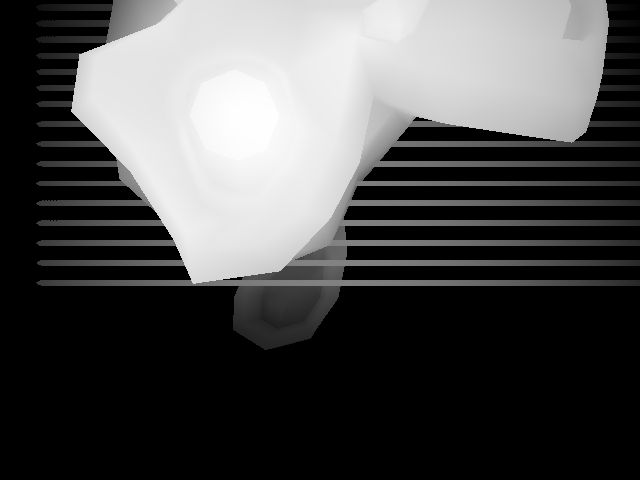
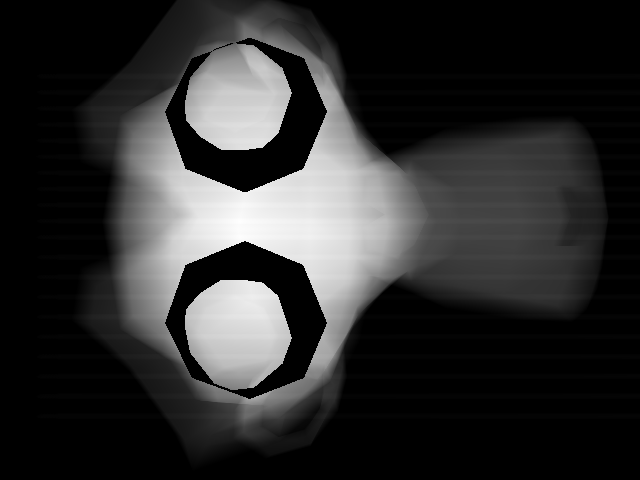
Full working hybrid

diff --git a/deepdrr/projector/projector.py b/deepdrr/projector/projector.py
@@ -10,6 +10,7 @@ import warnings
 os.environ['PYOPENGL_PLATFORM'] = 'egl' # TODO
 
 
+from collections import defaultdict
 import math
 from pyparsing import alphas
 import torch
@@ -646,8 +647,32 @@ class Projector(object):
             print(f"init arrays: {mesh_perf_end - mesh_perf_start}")
             mesh_perf_start = mesh_perf_end
 
+            for mesh in self.prim_meshes:
+                mesh.is_visible = False
+
+            self.additive_densities = np.zeros((len(self.mesh_unique_materials), self.n_rays), dtype=np.float32)
+
             # for mesh_i, _mesh in enumerate(self.primitives[:1]):
             # for mesh_i, _mesh in enumerate(self.primitives):
+            for i in range(len(self.prim_meshes_by_mat_list)):
+                meshes_to_show = self.prim_meshes_by_mat_list[i]
+                
+                for node in meshes_to_show:
+                    node.is_visible = True
+
+                rendered_layers = self.gl_renderer.render(self.scene, drr_mode=DRRMode.DENSITY, flags=RenderFlags.RGBA, zfar=self.device.source_to_detector_distance)
+                rendered_layers = [x for im in rendered_layers for x in [im[:,:,0], im[:,:,1]] ]
+                rendered_layers[0][rendered_layers[1]!=0] = 0 
+                self.additive_densities[i] = rendered_layers[0].flatten()
+                
+                for node in meshes_to_show:
+                    node.is_visible = False
+            
+            cuda.memcpy_htod(self.additive_densities_gpu, self.additive_densities)
+
+
+            for mesh in self.prim_meshes:
+                mesh.is_visible = True
 
             rendered_layers = self.gl_renderer.render(self.scene, drr_mode=DRRMode.BACKDIST, flags=RenderFlags.RGBA, zfar=self.device.source_to_detector_distance)
 
@@ -658,8 +683,6 @@ class Projector(object):
             mesh_perf_end = time.perf_counter()
             print(f"render: {mesh_perf_end - mesh_perf_start}")
             mesh_perf_start = mesh_perf_end
-
-            # cuda.memcpy_htod(self.additive_densities, color.astype(np.float32))
 
             prim_hit_alphas = np.zeros((num_rays, self.max_mesh_depth), dtype=np.float32)
             len_rendered = len(rendered_layers)
@@ -755,7 +778,7 @@ class Projector(object):
                 self.solid_angle_gpu,  # solid_angle
                 np.uint64(self.mesh_hit_alphas_gpu),
                 np.uint64(self.mesh_hit_facing_gpu),
-                np.uint64(self.additive_densities),
+                np.uint64(self.additive_densities_gpu),
                 np.uint64(self.mesh_unique_materials_gpu),
                 np.int32(len(self.mesh_unique_materials)),
                 np.int32(self.max_mesh_depth),
@@ -1261,7 +1284,19 @@ class Projector(object):
 
         self.scene = Scene(bg_color=[0.0, 0.0, 0.0])
 
-        self.prim_nodes = [self.scene.add(Mesh([Primitive(positions=prim.compute_vertices().copy(), indices=prim.triangles(flip_winding_order=False).copy())])) for prim in self.primitives]
+        # self.prim_nodes = [self.scene.add(Mesh([Primitive(positions=prim.compute_vertices().copy(), indices=prim.triangles(flip_winding_order=False).copy())])) for prim in self.primitives]
+        self.prim_nodes = []
+        self.prim_meshes = []
+        self.prim_meshes_by_mat = defaultdict(list)
+        for prim in self.primitives:
+            mesh = Mesh([Primitive(positions=prim.compute_vertices().copy(), indices=prim.triangles(flip_winding_order=False).copy())])
+            node = self.scene.add(mesh)
+            self.prim_nodes.append(node)
+            self.prim_meshes_by_mat[prim.material].append(mesh)
+            self.prim_meshes.append(mesh)
+
+        self.prim_meshes_by_mat_list = [self.prim_meshes_by_mat[mat] for mat in self.mesh_unique_materials]
+        
         # duckmesh = Mesh.from_trimesh(trimesh.load("./models/suzanne_stress.stl"))
         # self.scene.add(duckmesh)
 
@@ -1283,7 +1318,7 @@ class Projector(object):
 
         self.gl_renderer = OffscreenRenderer(viewport_width=width, viewport_height=height, point_size=1.0)
 
-        self.additive_densities = cuda.mem_alloc(len(self.mesh_unique_materials) * self.n_rays * NUMBYTES_FLOAT32)
+        self.additive_densities_gpu = cuda.mem_alloc(len(self.mesh_unique_materials) * self.n_rays * NUMBYTES_FLOAT32)
 
         # allocate volumes' priority level on the GPU
         self.priorities_gpu = cuda.mem_alloc(len(self.volumes) * NUMBYTES_INT32)
@@ -1830,7 +1865,7 @@ class Projector(object):
                 for seg in self.segmentations_gpu[vol_id]:
                     seg.free()
 
-            self.additive_densities.free()
+            self.additive_densities_gpu.free()
             self.mesh_unique_materials_gpu.free()
 
             self.priorities_gpu.free()

diff --git a/deepdrr/pyrender/renderer.py b/deepdrr/pyrender/renderer.py
@@ -162,8 +162,11 @@ class Renderer(object):
         # retval = self._forward_pass(scene, flags, seg_node_map=seg_node_map, drr_mode=drr_mode, zfar=zfar, peelnum=0)
         # retval = self._forward_pass(scene, flags, seg_node_map=seg_node_map, drr_mode=drr_mode, zfar=zfar, peelnum=1)
         # retval = self._forward_pass(scene, flags, seg_node_map=seg_node_map, drr_mode=drr_mode, zfar=zfar, peelnum=2)
-        for i in range(self.max_dual_peel_layers):
-            retval = self._forward_pass(scene, flags, seg_node_map=seg_node_map, drr_mode=drr_mode, zfar=zfar, peelnum=i)
+        if drr_mode != DRRMode.DENSITY:
+            for i in range(self.max_dual_peel_layers):
+                retval = self._forward_pass(scene, flags, seg_node_map=seg_node_map, drr_mode=drr_mode, zfar=zfar, peelnum=i)
+        else:
+            retval = self._forward_pass(scene, flags, seg_node_map=seg_node_map, drr_mode=drr_mode, zfar=zfar, peelnum=0)
 
         # # If necessary, make normals pass
         # if flags & (RenderFlags.VERTEX_NORMALS | RenderFlags.FACE_NORMALS):
@@ -355,8 +358,10 @@ class Renderer(object):
         #         seg_node_map = {}
         # else:
         #     glClearColor(*scene.bg_color)
-        glClearColor(-zfar, -zfar, -zfar, -zfar)
-        # glClearColor(0, 0, 0, 0);
+        if drr_mode != DRRMode.DENSITY:
+            glClearColor(-zfar, -zfar, -zfar, -zfar)
+        else:
+            glClearColor(0, 0, 0, 0);
 
 
         # glClear(GL_COLOR_BUFFER_BIT) # TODO
@@ -431,8 +436,8 @@ class Renderer(object):
             program._unbind()
         # glFlush() # TODO: I don't think this is needed for offscreen
 
-        if peelnum == self.max_dual_peel_layers-1:
-            return self._read_main_framebuffer(scene, flags)
+        if peelnum == self.max_dual_peel_layers-1 or drr_mode == DRRMode.DENSITY:
+            return self._read_main_framebuffer(scene, flags, drr_mode=drr_mode)
 
         # # If doing offscreen render, copy result from framebuffer and return
         # if flags & RenderFlags.OFFSCREEN:
@@ -637,9 +642,15 @@ class Renderer(object):
             #     glEnable(GL_BLEND)
             #     glBlendFunc(GL_ONE, GL_ONE)
             # glDisable(GL_BLEND)
-            glEnable(GL_BLEND)
-            glBlendEquation(GL_MAX)
-            glBlendFunc(GL_ONE, GL_ONE)
+
+            if drr_mode != DRRMode.DENSITY:
+                glEnable(GL_BLEND)
+                glBlendEquation(GL_MAX)
+                glBlendFunc(GL_ONE, GL_ONE)
+            else:
+                glEnable(GL_BLEND)
+                glBlendEquation(GL_FUNC_ADD)
+                glBlendFunc(GL_ONE, GL_ONE)
             
 
 
@@ -996,12 +1007,16 @@ class Renderer(object):
         # fragment_shader = 'front.frag'
         # vertex_shader = 'segmentation.vert'
         # fragment_shader = 'segmentation.frag'
-        if peelnum == 0:
-            vertex_shader = 'dual_peeling_init_vertex.glsl'
-            fragment_shader = 'dual_peeling_init_fragment.glsl'
+        if drr_mode != DRRMode.DENSITY:
+            if peelnum == 0:
+                vertex_shader = 'dual_peeling_init_vertex.glsl'
+                fragment_shader = 'dual_peeling_init_fragment.glsl'
+            else:
+                vertex_shader = 'dual_peeling_peel_vertex.glsl'
+                fragment_shader = 'dual_peeling_peel_fragment.glsl'
         else:
-            vertex_shader = 'dual_peeling_peel_vertex.glsl'
-            fragment_shader = 'dual_peeling_peel_fragment.glsl'
+            vertex_shader = 'density.vert'
+            fragment_shader = 'density.frag'
         # if (bool(program_flags & ProgramFlags.USE_MATERIAL) and
         #         not flags & RenderFlags.DEPTH_ONLY and
         #         not flags & RenderFlags.FLAT and
@@ -1265,7 +1280,7 @@ class Renderer(object):
         self._main_db_ms = None
         self._main_fb_dims = (None, None)
 
-    def _read_main_framebuffer(self, scene, flags):
+    def _read_main_framebuffer(self, scene, flags, drr_mode=DRRMode.NONE):
         width, height = self._main_fb_dims[0], self._main_fb_dims[1]
 
         # Bind framebuffer and blit buffers
@@ -1331,7 +1346,11 @@ class Renderer(object):
 
         ims = []
 
-        for i in range(self.max_dual_peel_layers):
+        numbufs = self.max_dual_peel_layers
+        if drr_mode == DRRMode.DENSITY:
+            numbufs = 1
+
+        for i in range(numbufs):
 
             glReadBuffer(GL_COLOR_ATTACHMENT_LIST[i])
 

diff --git a/examples/duck.py b/examples/duck.py
@@ -80,7 +80,8 @@ def render():
     
     # color[error_mask] = 0
 
-    ims = r.render(scene, drr_mode=DRRMode.BACKDIST, flags=RenderFlags.RGBA, zfar=zfar)
+    ims = r.render(scene, drr_mode=DRRMode.DENSITY, flags=RenderFlags.RGBA, zfar=zfar)
+    # ims = r.render(scene, drr_mode=DRRMode.BACKDIST, flags=RenderFlags.RGBA, zfar=zfar)
     # color, depth = r.render(scene, drr_mode=DRRMode.FRONTDIST)
 
 
@@ -143,6 +144,8 @@ import cv2
 
 # ims = [color[:,:,0], color[:,:,1], depth[:,:,0], depth[:,:,1], dfsa[:,:,0], dfsa[:,:,1]]
 ims = [x for im in ims for x in [im[:,:,0], im[:,:,1]] ]
+ims[0][ims[1]!=0] = 0 # for density error
+
 for i, im in enumerate(ims):
     print(f"")
     print(f"{i=}")
